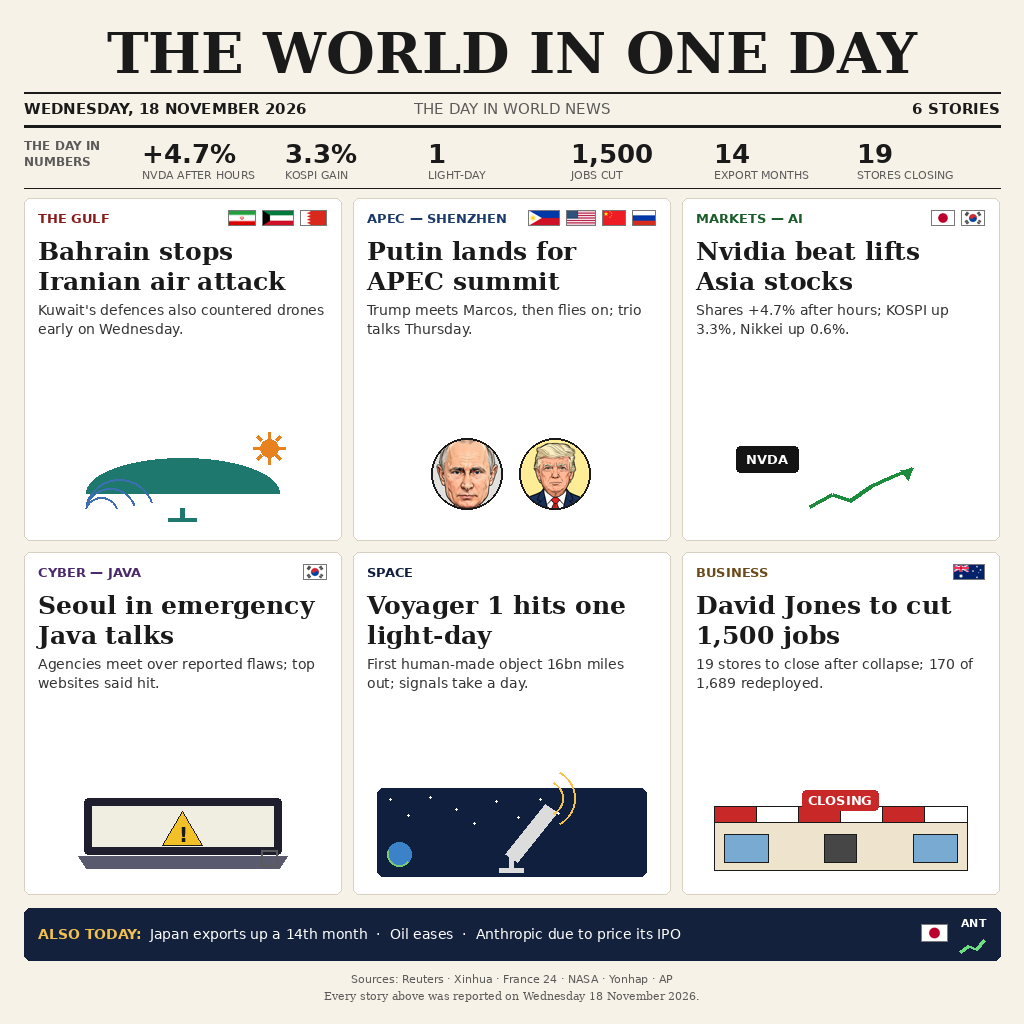
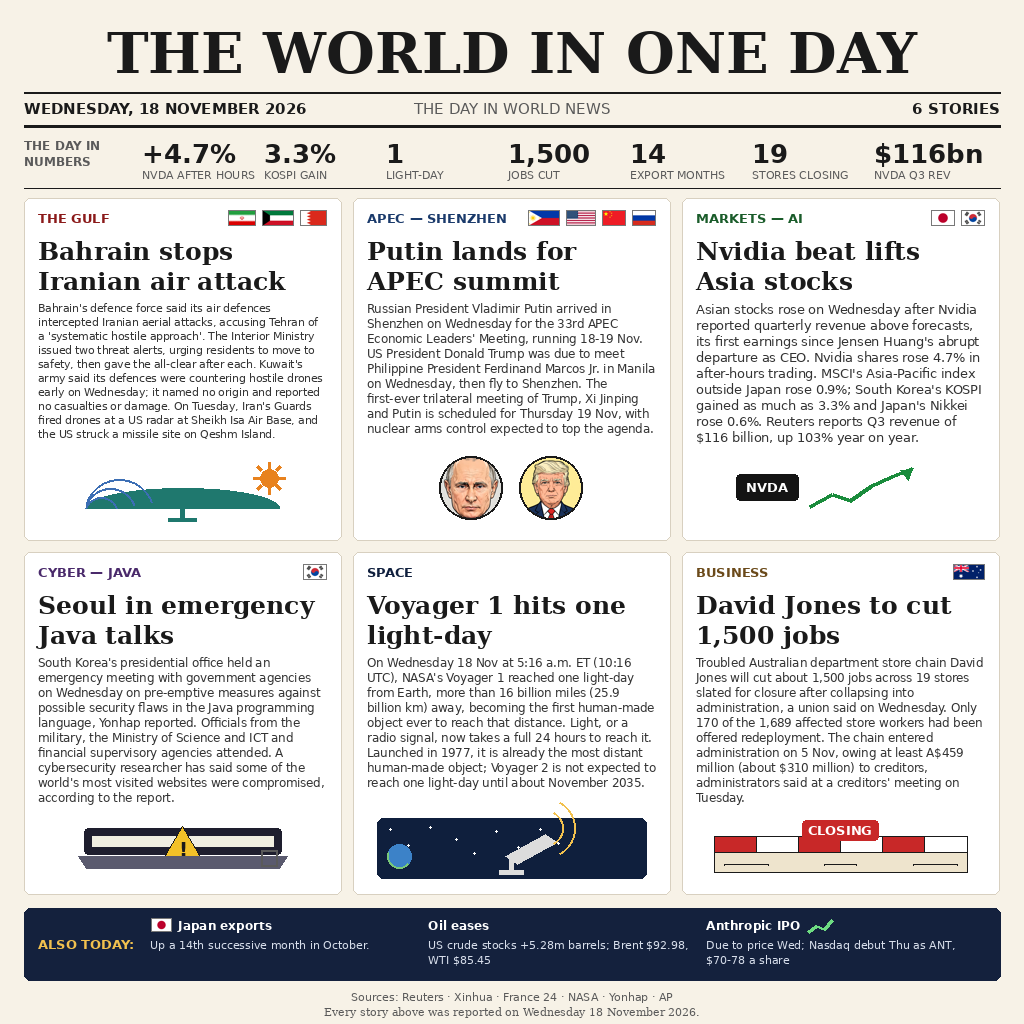
Expand news content: longer decks, denser cards

diff --git a/main.py b/main.py
@@ -1,10 +1,16 @@
 #!/usr/bin/env python3
-"""Sum up 18 November 2026's world news in one image.
+"""Sum up 18 November 2026's world news in one image (rev2: dense edition).
 
 Renders a 1024x1024 newspaper front page (THE WORLD IN ONE DAY) with the
 six verified stories of Wednesday 18 November 2026, plus an ALSO TODAY strip
 and a sources footer. Country names get their flag, people get their cartoon
 portrait, companies get a drawn ticker mark.
+
+Rev2 changes (user feedback: the news content was too brief): every story
+deck is expanded to a full multi-line article text built only from the
+verified facts in NEWS_FACTS.md, the deck font auto-fits so no card
+overflows, the numbers strip gains a 7th stat, and ALSO TODAY becomes a
+proper three-item section with two lines per item.
 
 Render path (Pillow available): draws the page with Pillow and writes it to
 $MAKEFUN_OUTPUT_DIR/entry.png.
@@ -75,6 +81,19 @@ def wrap_text(draw, text, font, max_w):
             lines[-2] = " ".join(prev[:-1])
             lines[-1] = moved + " " + lines[-1]
     return lines
+
+
+def fit_deck(draw, deck, max_w, max_h):
+    """Pick the largest deck font (13 down to 10.5) whose wrapped lines fit
+    in max_h, so a long deck never overlaps the visual area below it."""
+    for size in (13, 12.5, 12, 11.5, 11, 10.5):
+        font = _font("DejaVuSans.ttf", size)
+        line_h = int(size + 4)
+        lines = wrap_text(draw, deck, font, max_w)
+        if len(lines) * line_h <= max_h:
+            return font, lines, line_h
+    font = _font("DejaVuSans.ttf", 10.5)
+    return font, wrap_text(draw, deck, font, max_w), int(10.5 + 4)
 
 
 def draw_flag(draw, img, code, right, y, h):
@@ -226,7 +245,9 @@ def draw_store(draw, x, y, w, h):
 def draw_card(img, draw, x, y, w, h, cat, cat_key, flags, headline, deck,
               visual, portraits=()):
     """One story card: white rounded card, category + flags on top,
-    headline, deck, and a visual area anchored to the bottom."""
+    headline, a long auto-fitted deck, and a compact visual anchored to
+    the bottom. Portraits get a taller visual slot (76px); the drawn
+    visuals get 64px, so the deck has room for 7-9 lines of text."""
     draw.rounded_rectangle([x, y, x + w, y + h], radius=6, fill=CARD_BG,
                            outline=CARD_BORDER)
     pad = 14
@@ -245,38 +266,39 @@ def draw_card(img, draw, x, y, w, h, cat, cat_key, flags, headline, deck,
     for line in wrap_text(draw, headline, f_head, cw):
         draw.text((cx, hy), line, font=f_head, fill=INK)
         hy += 30
-    # deck
-    f_deck = _font("DejaVuSans.ttf", 14)
-    dy = hy + 6
-    for line in wrap_text(draw, deck, f_deck, cw):
-        draw.text((cx, dy), line, font=f_deck, fill=(51, 51, 51))
-        dy += 19
-    # visual area anchored to the bottom
-    vh = 96
+    # deck: auto-fit so it never reaches the visual area
+    vh = 76 if visual == "portraits" else 64
     vy = y + h - pad - vh
+    dy = hy + 6
+    max_deck_h = vy - 6 - dy
+    f_deck, deck_lines, line_h = fit_deck(draw, deck, cw, max_deck_h)
+    for line in deck_lines:
+        draw.text((cx, dy), line, font=f_deck, fill=(51, 51, 51))
+        dy += line_h
+    # visual area anchored to the bottom
     vw = cw
     if visual == "portraits":
-        d = 72
+        d = 64
         total = d * len(portraits) + 16 * (len(portraits) - 1)
         px = cx + (cw - total) // 2
         base = os.path.join(os.path.dirname(os.path.abspath(__file__)),
                             "assets")
         for name in portraits:
             circ = circle_portrait(img, os.path.join(base, name + ".png"), d)
-            img.paste(circ, (px, vy + 8), circ)
-            draw.ellipse([px, vy + 8, px + d - 1, vy + 8 + d - 1],
+            img.paste(circ, (px, vy + 6), circ)
+            draw.ellipse([px, vy + 6, px + d - 1, vy + 6 + d - 1],
                          outline=(26, 26, 26), width=2)
             px += d + 16
     elif visual == "radar":
-        draw_radar(draw, cx + 40, vy + 6, vw - 80, vh - 10)
+        draw_radar(draw, cx + 40, vy + 4, vw - 80, vh - 8)
     elif visual == "chart":
-        draw_chart(draw, cx + 40, vy + 10, vw - 80, vh - 16)
+        draw_chart(draw, cx + 40, vy + 6, vw - 80, vh - 12)
     elif visual == "laptop":
-        draw_laptop(draw, cx + 40, vy + 6, vw - 80, vh - 10)
+        draw_laptop(draw, cx + 40, vy + 4, vw - 80, vh - 8)
     elif visual == "space":
-        draw_space(draw, cx + 10, vy + 4, vw - 20, vh - 8)
+        draw_space(draw, cx + 10, vy + 2, vw - 20, vh - 4)
     elif visual == "store":
-        draw_store(draw, cx + 10, vy + 4, vw - 20, vh - 8)
+        draw_store(draw, cx + 10, vy + 2, vw - 20, vh - 4)
 
 
 def render():
@@ -302,7 +324,7 @@ def render():
               font=f_sub, fill=INK)
     draw.line([(MARGIN, 126), (W - MARGIN, 126)], fill=RULE, width=3)
 
-    # ---- numbers strip ----
+    # ---- numbers strip (7 stats) ----
     f_numlabel = _font("DejaVuSans-Bold.ttf", 12)
     draw.text((MARGIN, 138), "THE DAY IN", font=f_numlabel, fill=MUTED)
     draw.text((MARGIN, 154), "NUMBERS", font=f_numlabel, fill=MUTED)
@@ -313,11 +335,12 @@ def render():
         ("1,500", "JOBS CUT"),
         ("14", "EXPORT MONTHS"),
         ("19", "STORES CLOSING"),
+        ("$116bn", "NVDA Q3 REV"),
     ]
     f_num = _font("DejaVuSans-Bold.ttf", 26)
     f_numsub = _font("DejaVuSans.ttf", 11)
     sx0 = MARGIN + 118
-    scol = (CONTENT_W - 118) // 6
+    scol = (CONTENT_W - 118) // 7
     for i, (num, lab) in enumerate(stats):
         sx = sx0 + i * scol
         draw.text((sx, 138), num, font=f_num, fill=INK)
@@ -332,28 +355,70 @@ def render():
     cards = [
         dict(cat="THE GULF", key="gulf", flags=["bh", "kw", "ir"],
              headline="Bahrain stops Iranian air attack",
-             deck="Kuwait's defences also countered drones early on Wednesday.",
+             deck="Bahrain's defence force said its air defences intercepted "
+             "Iranian aerial attacks, accusing Tehran of a 'systematic "
+             "hostile approach'. The Interior Ministry issued two threat "
+             "alerts, urging residents to move to safety, then gave the "
+             "all-clear after each. Kuwait's army said its defences were "
+             "countering hostile drones early on Wednesday; it named no "
+             "origin and reported no casualties or damage. On Tuesday, "
+             "Iran's Guards fired drones at a US radar at Sheikh Isa Air "
+             "Base, and the US struck a missile site on Qeshm Island.",
              visual="radar"),
         dict(cat="APEC — SHENZHEN", key="apec",
              flags=["ru", "cn", "us", "ph"],
              headline="Putin lands for APEC summit",
-             deck="Trump meets Marcos, then flies on; trio talks Thursday.",
+             deck="Russian President Vladimir Putin arrived in Shenzhen on "
+             "Wednesday for the 33rd APEC Economic Leaders' Meeting, "
+             "running 18-19 Nov. US President Donald Trump was due to meet "
+             "Philippine President Ferdinand Marcos Jr. in Manila on "
+             "Wednesday, then fly to Shenzhen. The first-ever trilateral "
+             "meeting of Trump, Xi Jinping and Putin is scheduled for "
+             "Thursday 19 Nov, with nuclear arms control expected to top "
+             "the agenda.",
              visual="portraits", portraits=("putin", "trump")),
         dict(cat="MARKETS — AI", key="markets", flags=["kr", "jp"],
              headline="Nvidia beat lifts Asia stocks",
-             deck="Shares +4.7% after hours; KOSPI up 3.3%, Nikkei up 0.6%.",
+             deck="Asian stocks rose on Wednesday after Nvidia reported "
+             "quarterly revenue above forecasts, its first earnings since "
+             "Jensen Huang's abrupt departure as CEO. Nvidia shares rose "
+             "4.7% in after-hours trading. MSCI's Asia-Pacific index "
+             "outside Japan rose 0.9%; South Korea's KOSPI gained as much "
+             "as 3.3% and Japan's Nikkei rose 0.6%. Reuters reports Q3 "
+             "revenue of $116 billion, up 103% year on year.",
              visual="chart"),
         dict(cat="CYBER — JAVA", key="cyber", flags=["kr"],
              headline="Seoul in emergency Java talks",
-             deck="Agencies meet over reported flaws; top websites said hit.",
+             deck="South Korea's presidential office held an emergency "
+             "meeting with government agencies on Wednesday on "
+             "pre-emptive measures against possible security flaws in the "
+             "Java programming language, Yonhap reported. Officials from "
+             "the military, the Ministry of Science and ICT and financial "
+             "supervisory agencies attended. A cybersecurity researcher "
+             "has said some of the world's most visited websites were "
+             "compromised, according to the report.",
              visual="laptop"),
         dict(cat="SPACE", key="space", flags=[],
              headline="Voyager 1 hits one light-day",
-             deck="First human-made object 16bn miles out; signals take a day.",
+             deck="On Wednesday 18 Nov at 5:16 a.m. ET (10:16 UTC), NASA's "
+             "Voyager 1 reached one light-day from Earth, more than 16 "
+             "billion miles (25.9 billion km) away, becoming the first "
+             "human-made object ever to reach that distance. Light, or a "
+             "radio signal, now takes a full 24 hours to reach it. "
+             "Launched in 1977, it is already the most distant "
+             "human-made object; Voyager 2 is not expected to reach one "
+             "light-day until about November 2035.",
              visual="space"),
         dict(cat="BUSINESS", key="business", flags=["au"],
              headline="David Jones to cut 1,500 jobs",
-             deck="19 stores to close after collapse; 170 of 1,689 redeployed.",
+             deck="Troubled Australian department store chain David Jones "
+             "will cut about 1,500 jobs across 19 stores slated for "
+             "closure after collapsing into administration, a union said "
+             "on Wednesday. Only 170 of the 1,689 affected store workers "
+             "had been offered redeployment. The chain entered "
+             "administration on 5 Nov, owing at least A$459 million "
+             "(about $310 million) to creditors, administrators said at a "
+             "creditors' meeting on Tuesday.",
              visual="store"),
     ]
     for i, c in enumerate(cards):
@@ -361,40 +426,55 @@ def render():
                   c["cat"], c["key"], c["flags"], c["headline"], c["deck"],
                   c["visual"], portraits=c.get("portraits", ()))
 
-    # ---- ALSO TODAY strip ----
+    # ---- ALSO TODAY strip: three items, two lines each ----
     by = ys[1] + ch + 14
-    bh = 52
+    bh = 72
     draw.rounded_rectangle([MARGIN, by, W - MARGIN, by + bh], radius=6,
                            fill=NAVY_BAND)
-    f_al = _font("DejaVuSans-Bold.ttf", 14)
-    f_at = _font("DejaVuSans.ttf", 14)
-    ax = MARGIN + 14
+    f_al = _font("DejaVuSans-Bold.ttf", 13)
+    f_lead = _font("DejaVuSans-Bold.ttf", 12)
+    f_det = _font("DejaVuSans.ttf", 11)
     label = "ALSO TODAY:"
-    draw.text((ax, by + (bh - 14) // 2 - 1), label, font=f_al, fill=GOLD)
-    ax += draw.textlength(label, font=f_al) + 8
-    text = "Japan exports up a 14th month  ·  Oil eases  ·  Anthropic due to price its IPO"
-    draw.text((ax, by + (bh - 14) // 2 - 1), text, font=f_at,
-              fill=(255, 255, 255))
-    # Japan flag + ANT chart mark at the right end
-    tx = W - MARGIN - 14
-    f_ant = _font("DejaVuSans-Bold.ttf", 11)
-    ant = "ANT"
-    aw = draw.textlength(ant, font=f_ant)
-    draw.text((tx - aw, by + 8), ant, font=f_ant, fill=(255, 255, 255))
-    draw.line([(tx - aw, by + 44), (tx - aw + 8, by + 38),
-               (tx - aw + 16, by + 41), (tx - aw + 24, by + 32)],
-              fill=(110, 220, 130), width=3)
-    draw_flag(draw, img, "jp", tx - aw - 12, by + 16, 18)
+    lx = MARGIN + 14
+    draw.text((lx, by + (bh - 13) // 2 - 1), label, font=f_al, fill=GOLD)
+    col0 = lx + draw.textlength(label, font=f_al) + 16
+    col_w = (W - MARGIN - 14 - col0) // 3
+    items = [
+        dict(lead="Japan exports", flag="jp",
+             detail="Up a 14th successive month in October."),
+        dict(lead="Oil eases", flag=None,
+             detail="US crude stocks +5.28m barrels; Brent $92.98, WTI $85.45"),
+        dict(lead="Anthropic IPO", flag=None, chart=True,
+             detail="Due to price Wed; Nasdaq debut Thu as ANT, $70-78 a share"),
+    ]
+    for j, it in enumerate(items):
+        cx = col0 + j * col_w
+        tx = cx
+        if it.get("flag"):
+            # flag at the lead line, then the lead text after it
+            draw_flag(draw, img, it["flag"], cx + 22, by + 10, 14)
+            tx = cx + 28
+        draw.text((tx, by + 10), it["lead"], font=f_lead,
+                  fill=(255, 255, 255))
+        if it.get("chart"):
+            lw = draw.textlength(it["lead"], font=f_lead)
+            gx = tx + lw + 8
+            draw.line([(gx, by + 24), (gx + 8, by + 18), (gx + 16, by + 21),
+                       (gx + 24, by + 12)], fill=(110, 220, 130), width=3)
+        dy = by + 30
+        for line in wrap_text(draw, it["detail"], f_det, col_w - 8):
+            draw.text((cx, dy), line, font=f_det, fill=(215, 222, 235))
+            dy += 15
 
     # ---- footer ----
     f_foot = _font("DejaVuSans.ttf", 11)
     f_foot_i = _font("DejaVuSerif.ttf", 11)
-    fy = by + bh + 12
+    fy = by + bh + 10
     s1 = "Sources: Reuters · Xinhua · France 24 · NASA · Yonhap · AP"
     draw.text(((W - draw.textlength(s1, font=f_foot)) / 2, fy), s1,
               font=f_foot, fill=MUTED)
     s2 = "Every story above was reported on Wednesday 18 November 2026."
-    draw.text(((W - draw.textlength(s2, font=f_foot_i)) / 2, fy + 17), s2,
+    draw.text(((W - draw.textlength(s2, font=f_foot_i)) / 2, fy + 15), s2,
               font=f_foot_i, fill=MUTED)
     return img
 
